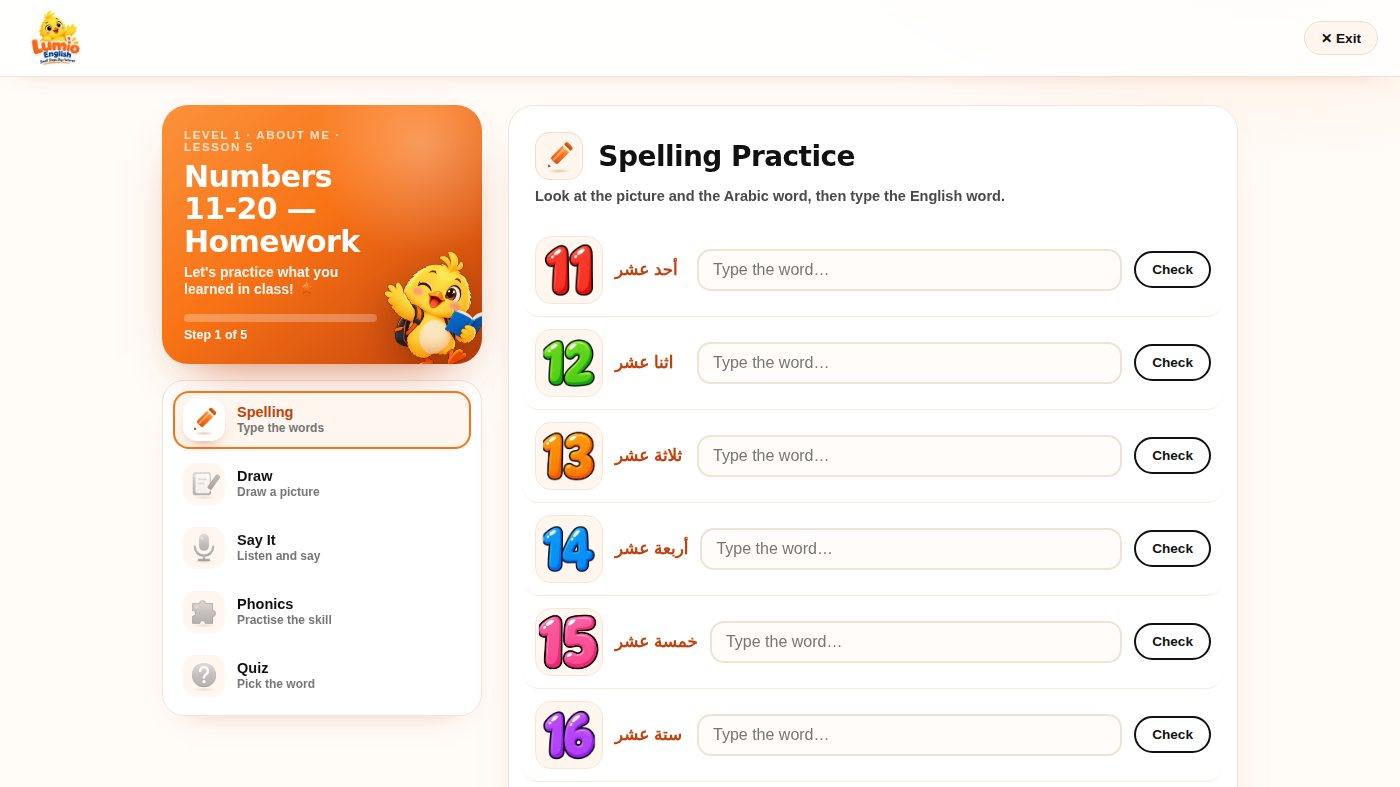
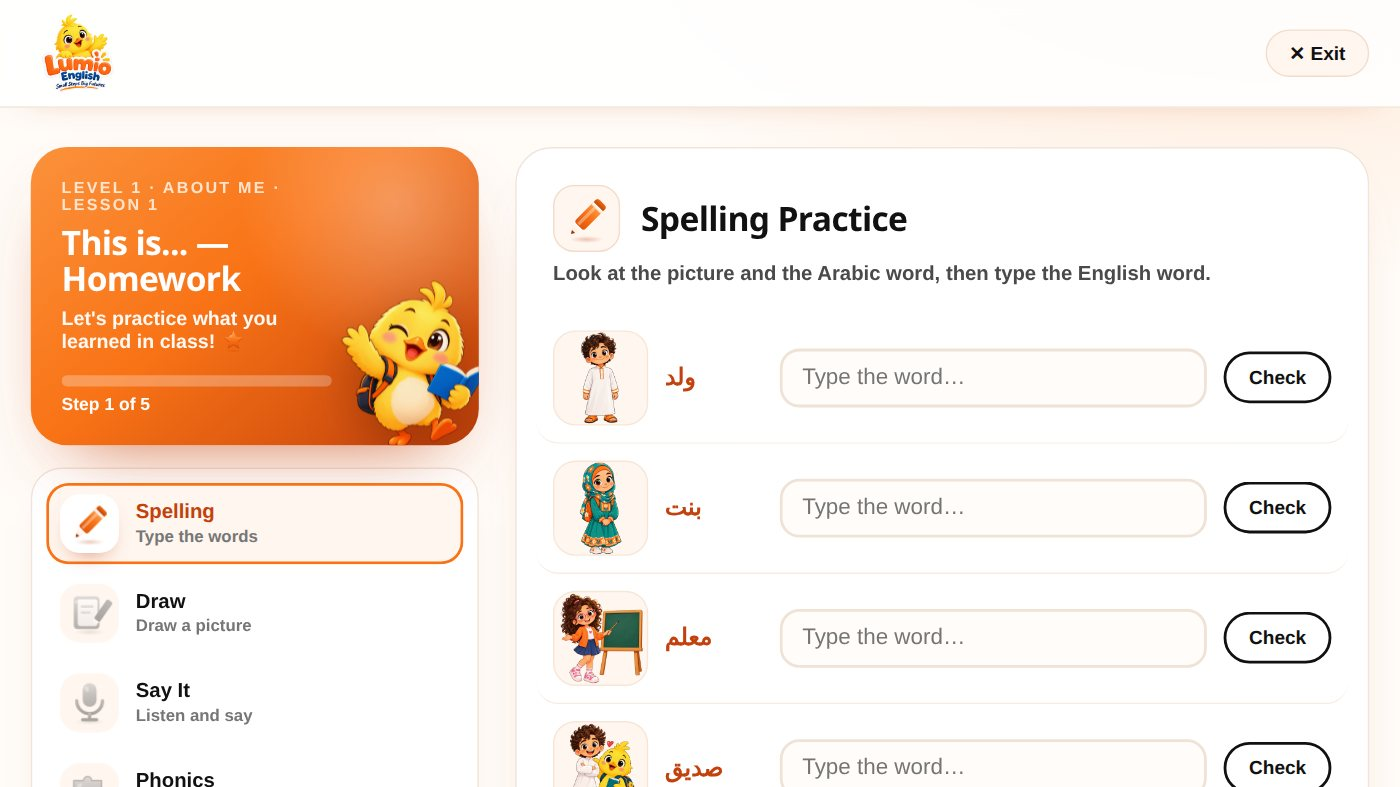
Landing page: fresh screenshots of today's lesson prep, v5 class slides and homework (new character art)
Claude-Session: https://claude.ai/code/session_01LMdMxXWWLygq3V4THqsfVp

diff --git a/js/site-i18n.js b/js/site-i18n.js
@@ -20,7 +20,7 @@ window.LUMIO_SITE_I18N = {
     'how.kicker': 'How it works', 'how.h2': 'One lesson, four moments.',
     'how.p': 'Every Lumio lesson follows the same rhythm, so your child always knows what comes next.',
     's1.h': 'Prepare in the app', 's1.p': 'Before class your child meets the new words with pictures, sound and Arabic meaning, at their own pace.',
-    's1.c1': 'Pictures & audio', 's1.c2': 'Arabic meaning', 's1.c3': 'Stars for every step', 's1.alt': 'The word preview in the Lumio app: a picture of a cat, the word, its Arabic meaning and a Listen button',
+    's1.c1': 'Pictures & audio', 's1.c2': 'Arabic meaning', 's1.c3': 'Stars for every step', 's1.alt': 'The word preview in the Lumio app: a picture of a boy, the word, its Arabic meaning and a Listen button',
     's2.h': 'Live class on Teams', 's2.p': 'A real teacher and up to four classmates at the same level, live on Microsoft Teams. Your child walks in already knowing the words.',
     's2.c1': 'Up to 4 children', 's2.c2': 'Saudi time', 's2.c3': 'Same level, same age', 's2.alt': 'The lesson shared on screen in a live class',
     's2.teacher': 'Teacher',
@@ -168,7 +168,7 @@ window.LUMIO_SITE_I18N = {
     'how.kicker': 'كيف تعمل', 'how.h2': 'درس واحد، أربع لحظات.',
     'how.p': 'كل درس في لوميو يسير بنفس الإيقاع، فيعرف طفلك دائماً ما الخطوة التالية.',
     's1.h': 'التحضير في التطبيق', 's1.p': 'قبل الحصة يتعرّف طفلك على الكلمات الجديدة بالصور والصوت والمعنى بالعربية، بالسرعة التي تناسبه.',
-    's1.c1': 'صور وصوت', 's1.c2': 'المعنى بالعربية', 's1.c3': 'نجوم لكل خطوة', 's1.alt': 'معاينة الكلمات في تطبيق لوميو: صورة قطة والكلمة ومعناها بالعربية وزر الاستماع',
+    's1.c1': 'صور وصوت', 's1.c2': 'المعنى بالعربية', 's1.c3': 'نجوم لكل خطوة', 's1.alt': 'معاينة الكلمات في تطبيق لوميو: صورة ولد والكلمة ومعناها بالعربية وزر الاستماع',
     's2.h': 'حصة مباشرة عبر Teams', 's2.p': 'معلم حقيقي ومعه حتى أربعة زملاء من نفس المستوى، مباشرة عبر Microsoft Teams. يدخل طفلك الحصة وهو يعرف الكلمات مسبقاً.',
     's2.c1': 'حتى ٤ أطفال', 's2.c2': 'بتوقيت السعودية', 's2.c3': 'نفس المستوى والعمر', 's2.alt': 'الدرس معروض على الشاشة في حصة مباشرة',
     's2.teacher': 'المعلم',

diff --git a/index.html b/index.html
@@ -111,7 +111,7 @@
       <div class="progress" aria-hidden="true"><i><b></b></i><i><b></b></i><i><b></b></i><i><b></b></i></div>
       <article class="scene"><div class="wrap">
         <div class="txt"><div class="n">01</div><h3 data-i18n="s1.h">Prepare in the app</h3><p data-i18n="s1.p"></p><div class="chips"><span data-i18n="s1.c1"></span><span data-i18n="s1.c2"></span><span data-i18n="s1.c3"></span></div></div>
-        <div class="device"><div class="bar"><i></i><i></i><i></i></div><img src="assets/site/shot-preview.jpg" data-i18n-alt="s1.alt" alt="The word preview in the Lumio app: a picture of a cat, the word, its Arabic meaning and a Listen button" loading="lazy"></div>
+        <div class="device"><div class="bar"><i></i><i></i><i></i></div><img src="assets/site/shot-preview.jpg" data-i18n-alt="s1.alt" alt="The word preview in the Lumio app: a picture of a boy, the word, its Arabic meaning and a Listen button" loading="lazy"></div>
       </div></article>
       <article class="scene"><div class="wrap">
         <div class="txt"><div class="n">02</div><h3 data-i18n="s2.h">Live class on Teams</h3><p data-i18n="s2.p"></p><div class="chips"><span data-i18n="s2.c1"></span><span data-i18n="s2.c2"></span><span data-i18n="s2.c3"></span></div></div>
